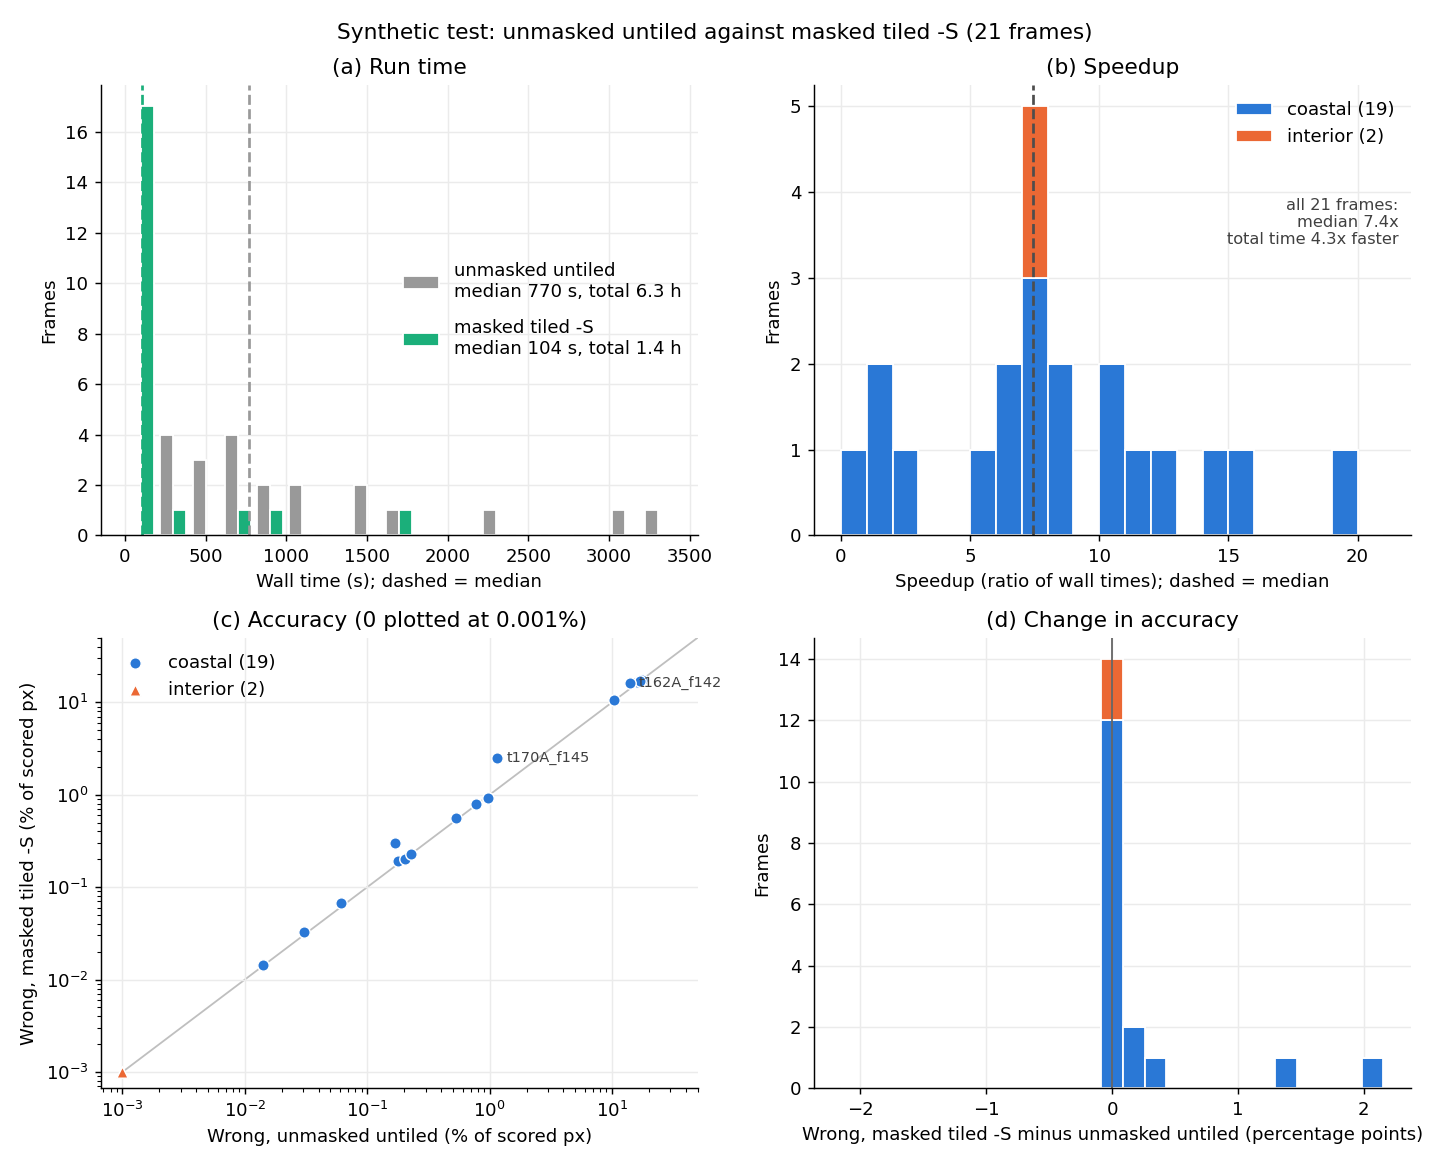
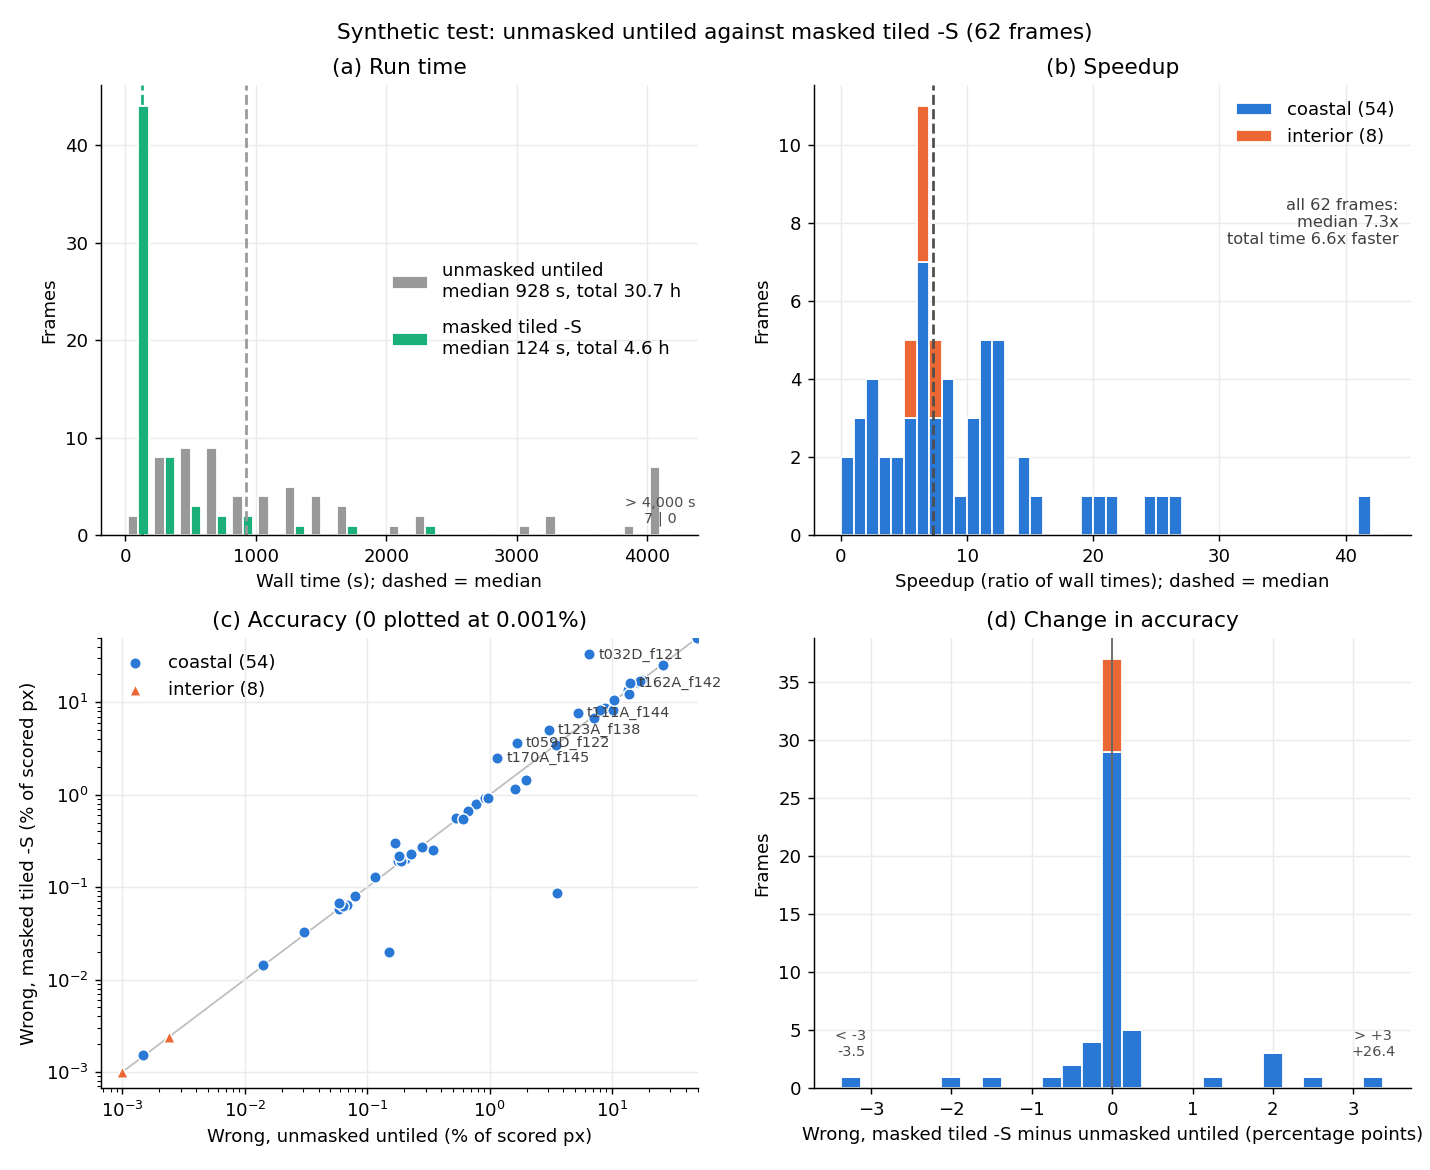
snaphuTilingMasking: interim results on 62 frames, the snaphu overflow fix and the slow tile stitching
Claude-Session: https://claude.ai/code/session_01UG6jZhctxPfaFKqE7cozuF

diff --git a/Documents/snaphuTilingMasking.md b/Documents/snaphuTilingMasking.md
@@ -1,7 +1,7 @@
 # Tiled phase unwrapping of noisy NISAR interferograms: the cost of residues and a masking remedy
 
 **Status: draft, 2026-11-14.** Based on real-data diagnostics for 5 Antarctica40 frames and a synthetic test of
-the first 10 of 100 frames (Section 3.4), with an interim summary of the 21 finished so far (Section 3.5). The
+the first 10 of 100 frames (Section 3.4), with an interim summary of the 62 finished so far (Section 3.5). The
 synthetic test is running on all 100 frames, with a second 100 (P05023 products only) queued behind them, and
 this note will be extended when it finishes (see [Plan](#plan)).
 
@@ -62,7 +62,8 @@ RUNW's 13 x 16 looks. The two modes compared are:
 
 - **untiled**: the unmodified snaphu release, as used for production unwrapping;
 - **tiled with `-S`**: the modified build, 4 x 4 tiles with 200-pixel overlaps, 16 processes, followed by the
-  single-tile re-optimization. Its output is byte-identical to the unmodified release for the same mode.
+  single-tile re-optimization. Its output is byte-identical to the unmodified release for the same mode,
+  except that it no longer aborts when masked areas carry large flows (Section 3.5).
 
 Runs were made on a 48-core machine shared with other work. Wall-clock times are therefore indicative to perhaps
 20%.
@@ -237,40 +238,65 @@ corrected run's error rates differ by less than 0.04 percentage points.*
 
 ### 3.5 Synthetic test: the frames finished so far
 
-*Interim: 21 frames, including the 10 in Table 2. This section will be redone when all frames are finished, with
-the full per-frame table in an appendix.*
+*Interim: 62 of the 100 frames (2026-11-14, 21:30), including the 10 in Table 2. This section will be redone when
+all frames are finished, with the full per-frame table in an appendix.*
 
-Table 3 and Figure 4 summarize the 21 frames for which both runs have finished. Masked tiled `-S` unwrapping
-took a median of 104 s per frame against 770 s for unmasked untiled unwrapping (Figure 4a). The median speedup
-is 7.4 times (Figure 4b). The total time fell less, by 4.3 times, from 6.3 h to 1.4 h, because a few frames
-gained little.
+Table 3 and Figure 4 summarize the 62 frames for which both runs have finished (54 coastal, 8 interior; most
+interior frames are later in the queue). Masked tiled `-S` unwrapping took a median of 124 s per frame against
+928 s for unmasked untiled unwrapping (Figure 4a). The median speedup is 7.3 times (Figure 4b), and the total
+time fell 6.6 times, from 30.7 h to 4.6 h.
 
-Four frames gained less than 2.5 times: `t138A_f141` (1.8), `t152A_f139` (0.8, slower when masked and tiled),
-`t162A_f142` (1.8) and `t172D_f127` (2.3). All four are frames the synthetic test barely unwraps, with 10-17% of
-pixels wrong in both runs. On such frames the tiles probably disagree over large areas, so the `-S`
-re-optimization has much left to change, as on the unmasked coastal frames in Section 3.1. Errors this large may
-say more about the synthetic interferogram than about the method (Section 2.4).
+**Accuracy.** Most frames are unchanged (Figure 4c, d). On 36 of the 58 frames that could be scored the two
+errors are within 0.07 percentage points of each other, and on 47 within 0.5 points. The remaining differences
+go both ways, and six frames are substantially worse and six substantially better (Table 3):
 
-Accuracy is unchanged on most frames (Figure 4c, d). On 14 of the 19 frames that could be scored, the masked tiled
-`-S` error is within 0.07 percentage points of the unmasked untiled error, and no frame is substantially better.
-Three are slightly worse (`t067A_f145` +0.14, `t172D_f127` +0.22 and `t138A_f141` +0.34 percentage points). Two
-are substantially worse: `t170A_f145` (+1.3 points, caused by the mask; Section 3.4) and `t162A_f142` (14.0% to
-16.1%, not yet attributed).
+- Worse: `t170A_f145` (1.2% to 2.5%) and `t059D_f122` (1.7% to 3.7%), both caused by the mask, since unwrapping
+  the masked input untiled gives the same error; `t123A_f138` (3.1% to 5.0%), `t111A_f144` (5.3% to 7.7%),
+  `t162A_f142` (14.0% to 16.1%) and `t032D_f121` (6.5% to 32.9%), not yet attributed. The loss on `t032D_f121`
+  is far outside the other differences and needs a closer look.
+- Better: `t044D_f123` (3.6% to 0.09%), `t131D_f122` (10.3% to 8.3%), `t115D_f127` (13.7% to 12.2%),
+  `t057D_f127` (26.3% to 25.5%), `t030D_f122` (2.0% to 1.5%) and `t073D_f123` (0.15% to 0.02%). Presumably
+  the mask removes noise residues that untiled snaphu would otherwise connect through the data; this is not yet
+  checked.
 
-*Table 3. Synthetic test, the 21 frames finished so far, by class. Totals are summed wall-clock times. "Wrong" is
-the median share of scored pixels with the wrong cycle count. "Substantially worse" uses the rule of Table 2.*
+**An overflow abort.** Three frames (`t059D_f122`, `t116D_f126`, `t081D_f127`) first failed. snaphu aborted at
+the start of the `-S` re-optimization with "((Maximum flow) * NSHORTCYCLE) too large". Each tile leaves its masked
+pixels at an arbitrary cycle count, so the assembled solution jumped by up to 245 cycles across masked areas,
+while snaphu allows at most 160 (32,000 divided by `NSHORTCYCLE` 200). Arcs next to masked pixels carry no cost,
+and snaphu's solver loop already ignores them when it tracks the largest flow, so the modified build now applies
+the initial check to the other arcs only. On frames that passed the check its output is byte-identical to the
+previous build.
 
-| Set | Frames | Unmasked untiled, total | Masked tiled `-S`, total | Speedup, median (range) | Wrong, unmasked untiled | Wrong, masked tiled `-S` | Substantially worse |
-|---|---|---|---|---|---|---|---|
-| all | 21 | 6.3 h | 1.4 h | 7.4 (0.8-19.3) | 0.530% | 0.554% | 2 of 19 |
-| coastal | 19 | 5.9 h | 1.4 h | 7.5 (0.8-19.3) | 0.771% | 0.788% | 2 of 17 |
-| interior | 2 | 0.4 h | 0.05 h | 7.3 (7.1-7.4) | 0.000% | 0.000% | 0 of 2 |
+**Slow frames: the tile stitching.** snaphu assembles the tiles by solving a secondary network for the cycle
+offset of each piece of each tile. On 9 of the 62 frames this solver stopped early ("No overall cost reduction
+for too many iterations") after clipping its incremental costs, which it holds as 16-bit integers. The assembled
+solution then contains wrong offsets of tens of cycles between pieces (127 cycles across a 180-pixel boundary on
+`t081D_f127`), which the `-S` pass has to repair. The final answer is repaired, but the time is lost: these nine
+frames have a median speedup of 2.6 against 7.5 for the other 53, and take about half of the masked tiled `-S`
+time (2.4 of 4.6 h). Four of the seven frames that gained less than 2.5 times are among them (`t138A_f141` 1.8,
+`t162A_f142` 1.8, `t172D_f127` 2.3, `t166A_f139` 2.4). The other three (`t152A_f139` 0.8, `t057D_f127` 0.9 and
+`t173D_f127` 1.1) are not, and are not yet explained. Three changes to the stitching were tried on `t081D_f127`
+without removing the problem: scaling the secondary costs by the mean length of the arcs that carry cost,
+scaling them down further to avoid clipping, and estimating the offsets between whole tiles from unmasked edge
+pixels only.
+
+*Table 3. Synthetic test, the 62 frames finished so far, by class. Totals are summed wall-clock times. "Wrong" is
+the median share of scored pixels with the wrong cycle count. "Substantially worse" and "substantially better" use
+the rule of Table 2 in each direction.*
+
+| Set | Frames | Unmasked untiled, total | Masked tiled `-S`, total | Speedup, median (range) | Wrong, unmasked untiled | Wrong, masked tiled `-S` | Substantially worse | Substantially better |
+|---|---|---|---|---|---|---|---|---|
+| all | 62 | 30.7 h | 4.6 h | 7.3 (0.8-41.2) | 0.636% | 0.551% | 6 of 58 | 6 of 58 |
+| coastal | 54 | 29.8 h | 4.5 h | 8.4 (0.8-41.2) | 0.965% | 0.922% | 6 of 50 | 6 of 50 |
+| interior | 8 | 0.8 h | 0.1 h | 6.2 (5.0-7.4) | 0.000% | 0.000% | 0 of 8 | 0 of 8 |
 
 ![Figure 4](images/snaphuTiling_syntheticSummary.png)
-*Figure 4. Synthetic test, the 21 frames finished so far. (a) Wall time of each run, with medians (dashed) and
-totals. (b) Speedup, stacked by class, with the median (dashed). (c) Share of scored pixels with the wrong cycle
-count, masked tiled `-S` against unmasked untiled, on log axes (zero plotted at 0.001%); frames substantially
-worse are labelled. (d) Change in that share, masked tiled `-S` minus unmasked untiled.*
+*Figure 4. Synthetic test, the 62 frames finished so far. (a) Wall time of each run, with medians (dashed) and
+totals; runs longer than 4,000 s are in the last bin (unmasked untiled | masked tiled `-S`). (b) Speedup, stacked
+by class, with the median (dashed). (c) Share of scored pixels with the wrong cycle count, masked tiled `-S`
+against unmasked untiled, on log axes (zero plotted at 0.001%); frames substantially worse are labelled. (d)
+Change in that share, masked tiled `-S` minus unmasked untiled; changes beyond ±3 points are in the end bins,
+with their values.*
 
 ## 4. Discussion
 
@@ -317,18 +343,20 @@ When all 100 synthetic frames are done:
    `diagOceanMask/synthSummary.py`:
    - a summary table by class (all, coastal, interior): frames, total time for each run, median and range of
      the speedup, median share of wrong pixels for each run, and the number of frames that are substantially
-     worse;
+     worse or better;
    - a four-panel figure: (a) histograms of the two runs' wall times; (b) histogram of the speedup, by class;
      (c) wrong-pixel share of the two runs against each other, on
      log axes; (d) histogram of the change in wrong-pixel share;
    - the full per-frame table, with the same colour rule as Table 2, in an appendix.
 2. **Frames that lose accuracy.** Check each one as `t170A_f145` was checked (masked untiled and unmasked tiled),
    to attribute the loss to the mask or to tiling.
-3. **Gentler masks.** Test mask variants on those frames, for example masking only residue regions connected to
+3. **Tile stitching.** Find why the secondary solver starts tens of cycles from the answer on the slow frames,
+   and fix it using the data alone; also explain the slow frames where it converges.
+4. **Gentler masks.** Test mask variants on those frames, for example masking only residue regions connected to
    open ocean, or a different thickness rule.
-4. **Production.** Settle the mask rule, and add the preprocessing (residue mask, smooth fill of masked and
+5. **Production.** Settle the mask rule, and add the preprocessing (residue mask, smooth fill of masked and
    sub-swath pixels) ahead of tiled unwrapping in production.
-5. **Real-data check.** Repeat the real-data comparison on a sample of frames with the final preprocessing.
+6. **Real-data check.** Repeat the real-data comparison on a sample of frames with the final preprocessing.
 
 ## Appendix: files
 
@@ -343,3 +371,4 @@ Work directory `/Volumes/insar4/ian/Data/NISAR/Antarctica/unwrapTest40/`:
 | `diagOceanMask/synthTest.py` | the synthetic test; results in `synth2/{none,mask0.25}/<frame>/result.json` |
 | `diagOceanMask/synth2/queueAll.sh` | the queue working through all 100 frames |
 | `diagOceanMask/synthSummary.py` | summary table, per-frame table and figure for the synthetic test |
+| `bin/snaphu-2.0.7-grimpopt-maskflow`, `bin/snaphu-2.0.7-grimp-maskflow.patch` | the modified snaphu build used for masked tiled `-S` since 2026-11-14, and its patch against snaphu 2.0.7 |
